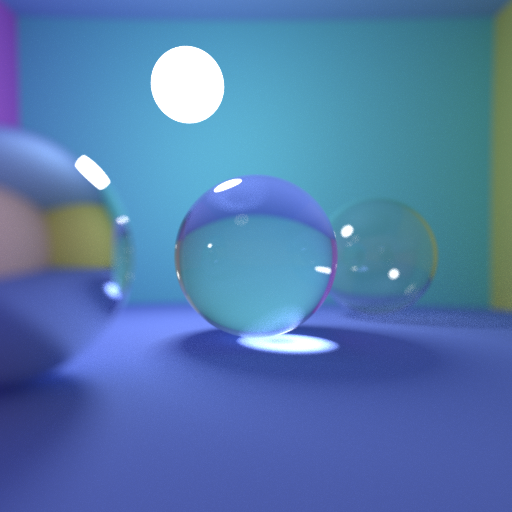
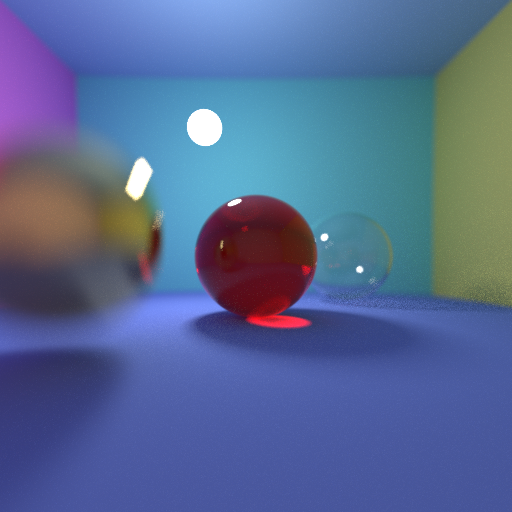
added motion blur and metallic golden ball

diff --git a/main.cpp b/main.cpp
@@ -12,7 +12,7 @@
 #endif
 
 static std::default_random_engine engine[256];
-static std::uniform_real_distribution<double> uniform(0, 1);
+thread_local std::uniform_real_distribution<double> uniform(0, 1);
 
 const double eps = 1e-10;
 
@@ -50,6 +50,9 @@ Vector operator*(const double a, const Vector &b) {
     return Vector(a * b[0], a * b[1], a * b[2]);
 }
 Vector operator*(const Vector &a, const double b) { return b * a; }
+Vector operator*(const Vector &a, const Vector &b) {
+    return Vector(a[0] * b[0], a[1] * b[1], a[2] * b[2]);
+}
 Vector operator/(const Vector &a, const double b) {
     return Vector(a[0] / b, a[1] / b, a[2] / b);
 }
@@ -63,10 +66,10 @@ Vector cross(const Vector &a, const Vector &b) {
 
 class Ray {
   public:
-    Ray(const Vector &origin, const Vector &unit_direction)
-        : O(origin), u(unit_direction){};
+    Ray(const Vector &origin, const Vector &unit_direction, double time)
+        : O(origin), u(unit_direction), time(time){};
     Vector O, u;
-    double n;
+    double time;
 };
 
 class Object {
@@ -79,7 +82,7 @@ class Object {
     virtual bool intersect(const Ray &ray, Vector &P, double &t,
                            Vector &N) const = 0;
 
-    Vector albedo;
+    Vector albedo, velocity = Vector(0, 0, 0);
     bool mirror, transparent, is_light;
     double n;
 };
@@ -97,14 +100,15 @@ class Sphere : public Object {
     // t>=0 the distance between the ray origin and P (i.e., the parameter along
     // the ray) and the unit normal N
     bool intersect(const Ray &ray, Vector &P, double &t, Vector &N) const {
-        double delta =
-            sqr(dot(ray.u, ray.O - C)) - ((ray.O - C).norm2() - sqr(R));
+        Vector real_C = C + velocity * ray.time;
+        double delta = sqr(dot(ray.u, ray.O - real_C)) -
+                       ((ray.O - real_C).norm2() - sqr(R));
         if (delta < -eps)
             return false;
         if (-eps < delta && delta < eps)
             delta = 0;
-        double t1 = dot(ray.u, C - ray.O) + sqrt(delta);
-        double t2 = dot(ray.u, C - ray.O) - sqrt(delta);
+        double t1 = dot(ray.u, real_C - ray.O) + sqrt(delta);
+        double t2 = dot(ray.u, real_C - ray.O) - sqrt(delta);
         if (t1 < eps)
             return false;
         if (t2 > eps)
@@ -112,7 +116,7 @@ class Sphere : public Object {
         else
             t = t1;
         P = ray.O + t * ray.u;
-        N = P - C;
+        N = P - real_C;
         N.normalize();
         if (invert_normals)
             N = N * -1.0;
@@ -183,8 +187,9 @@ class Scene {
                     return Vector(0.0, 0.0,
                                   0.0); // we don't want to count light twice
                 }
-                double r = 5.0; // sphere radius, TODO remove hardcoding
-                double area = 4.0 * M_PI * r * r;
+                if (light_radius < eps) // basically 0
+                    return Vector(1.0, 1.0, 1.0);
+                double area = 4.0 * M_PI * light_radius * light_radius;
                 double emission = light_intensity / (area * M_PI);
                 return Vector(1, 1, 1) *
                        emission; // I'm sure it's a smart formula
@@ -194,11 +199,12 @@ class Scene {
                 // recursion_depth+1 (recursively)
                 Vector new_vec = ray.u - 2 * dot(ray.u, N) * N;
                 new_vec.normalize();
-                return getColor(Ray(P + eps * N, new_vec), recursion_depth + 1);
+                return getColor(Ray(P + eps * N, new_vec, ray.time),
+                                recursion_depth + 1) *
+                       objects[object_id]->albedo;
             }
 
-            if (objects[object_id]
-                    ->transparent) { // TODO for now it's just normal glass
+            if (objects[object_id]->transparent) {
                 // return getColor in the refraction direction, with
                 // recursion_depth+1 (recursively)
                 double n1 = 1.0; // air
@@ -227,9 +233,10 @@ class Scene {
                     ref.normalize();
 
                     // offset on the same side
-                    return getColor(Ray(P + eps * N_ref, ref),
-                                    recursion_depth + 1);
-                } else { // refracts
+                    return getColor(Ray(P + eps * N_ref, ref, ray.time),
+                                    recursion_depth + 1) *
+                           objects[object_id]->albedo;
+                } else {
                     // ADDITION: Fresnel law
                     double k0 = sqr((n1 - n2) / (n1 + n2));
                     double R = k0 + (1.0 - k0) * std::pow(1.0 - cosi, 5.0);
@@ -239,7 +246,7 @@ class Scene {
                         Vector ref = ray.u + 2 * cosi * N_ref;
                         ref.normalize();
 
-                        return getColor(Ray(P + eps * N_ref, ref),
+                        return getColor(Ray(P + eps * N_ref, ref, ray.time),
                                         recursion_depth + 1);
                     } else { // refract
                         double cos_r = sqrt(1.0 - sin2_r);
@@ -247,8 +254,9 @@ class Scene {
                         ref.normalize();
 
                         // offset on the opposite side
-                        return getColor(Ray(P - eps * N_ref, ref),
-                                        recursion_depth + 1);
+                        return getColor(Ray(P - eps * N_ref, ref, ray.time),
+                                        recursion_depth + 1) *
+                               objects[object_id]->albedo;
                     }
                 }
             }
@@ -263,14 +271,17 @@ class Scene {
             double r_xy = sqrt(std::max(0.0, 1.0 - z * z));
             double x = r_xy * cos(2 * M_PI * r2);
             double y = r_xy * sin(2 * M_PI * r2);
-            double light_radius = 5.0; // TODO remove hardcoding
-            Vector random_light_point =
-                light_position + Vector(x, y, z) * light_radius;
-
+            Vector random_light_point;
+            if (light_radius > eps)
+                random_light_point =
+                    light_position + Vector(x, y, z) * light_radius;
+            else
+                random_light_point = light_position;
             // test if there is a shadow by sending a new ray
             P = P + eps * N;
-            Ray new_ray(P, (random_light_point - P) /
-                               (random_light_point - P).norm());
+            Ray new_ray(
+                P, (random_light_point - P) / (random_light_point - P).norm(),
+                ray.time);
             Vector P1, N1;
             int object_id1;
             double t1;
@@ -317,11 +328,8 @@ class Scene {
             Vector dir = x * T1 + y * T2 + z * N;
             dir.normalize();
             Vector next_color =
-                getColor(Ray(P, dir), recursion_depth + 1, true);
-            Vector indirect_light =
-                Vector(objects[object_id]->albedo.data[0] * next_color.data[0],
-                       objects[object_id]->albedo.data[1] * next_color.data[1],
-                       objects[object_id]->albedo.data[2] * next_color.data[2]);
+                getColor(Ray(P, dir, ray.time), recursion_depth + 1, true);
+            Vector indirect_light = next_color * objects[object_id]->albedo;
             return direct_light + indirect_light;
         }
         return Vector(0, 0, 0);
@@ -330,7 +338,8 @@ class Scene {
     std::vector<const Object *> objects;
 
     Vector camera_center, light_position;
-    double focal_distance, lens_radius;
+    double light_radius; // 0 if point source
+    double focal_distance, lens_radius, camera_shutter_time;
     double fov, gamma, light_intensity;
     int max_light_bounce;
 };
@@ -344,22 +353,23 @@ int main() {
     }
 
     // these recreate the pic with all spheres aligned
-    // Sphere left_sphere(Vector(-20, 0, 0), 10., Vector(0.8, 0.8, 0.8), true,
+    // Sphere left_sphere(Vector(-20, 0, 0), 10., Vector(1.0, 1.0, 1.0), true,
     //                    false);
-    // Sphere center_sphere(Vector(0, 0, 0), 10., Vector(0.8, 0.8, 0.8), false,
+    // Sphere center_sphere(Vector(0, 0, 0), 10., Vector(1.0, 1.0, 1.0), false,
     //                      true);
-    // Sphere right_sphere_outer(Vector(20, 0, 0), 10.0, Vector(0.8, 0.8, 0.8),
+    // Sphere right_sphere_outer(Vector(20, 0, 0), 10.0, Vector(1.0, 1.0, 1.0),
     //                           false, true);
-    // Sphere right_sphere_inner(Vector(20, 0, 0), 9.5, Vector(0.8, 0.8, 0.8),
+    // Sphere right_sphere_inner(Vector(20, 0, 0), 9.5, Vector(1.0, 1.0, 1.0),
     //                           false, true, false, 1.5, true);
 
-    Sphere left_sphere(Vector(-20, 0, 20), 10., Vector(0.8, 0.8, 0.8), true,
+    Sphere left_sphere(Vector(-20, 0, 20), 10., Vector(1.0, 0.76, 0.33), true,
                        false);
-    Sphere center_sphere(Vector(0, 0, 0), 10., Vector(0.8, 0.8, 0.8), false,
+    left_sphere.velocity = Vector(0, 200, 0);
+    Sphere center_sphere(Vector(0, 0, 0), 10., Vector(1.0, 0.0, 0.0), false,
                          true);
-    Sphere right_sphere_outer(Vector(20, 0, -20), 10.0, Vector(0.8, 0.8, 0.8),
+    Sphere right_sphere_outer(Vector(20, 0, -20), 10.0, Vector(1.0, 1.0, 1.0),
                               false, true);
-    Sphere right_sphere_inner(Vector(20, 0, -20), 9.5, Vector(0.8, 0.8, 0.8),
+    Sphere right_sphere_inner(Vector(20, 0, -20), 9.5, Vector(1.0, 1.0, 1.0),
                               false, true, false, 1.5, true);
 
     Sphere wall_left(Vector(-1000, 0, 0), 940, Vector(0.8, 0.2, 0.8));
@@ -369,17 +379,19 @@ int main() {
     Sphere ceiling(Vector(0, 1000, 0), 940, Vector(0.3, 0.5, 0.8));
     Sphere floor(Vector(0, -1000, 0), 990, Vector(0.2, 0.3, 0.8));
 
-    Sphere light_sphere(Vector(-10, 25, -10), 5, Vector(1, 1, 1), false, true,
+    Sphere light_sphere(Vector(-10, 25, -10), 3, Vector(1, 1, 1), false, true,
                         true);
 
     Scene scene;
     scene.camera_center = Vector(0, 0, 55);
     scene.light_position = Vector(-10, 25, -10);
+    scene.light_radius = 3.0;
     scene.light_intensity = 1E7;
     scene.focal_distance = 55.0;
     scene.lens_radius = 1.5;
+    scene.camera_shutter_time = 1.00 / 48; // from the internet
 
-    scene.fov = 60 * M_PI / 180.;
+    scene.fov = 75 * M_PI / 180.;
     scene.gamma = 2.2;
     scene.max_light_bounce = 10;
 
@@ -447,7 +459,11 @@ int main() {
                 Vector final_dir = focal_point - new_origin;
                 final_dir.normalize();
 
-                color = color + scene.getColor(Ray(new_origin, final_dir), 0);
+                color =
+                    color + scene.getColor(Ray(new_origin, final_dir,
+                                               uniform(engine[tid]) *
+                                                   scene.camera_shutter_time),
+                                           0);
             }
             color = color / N;
 
